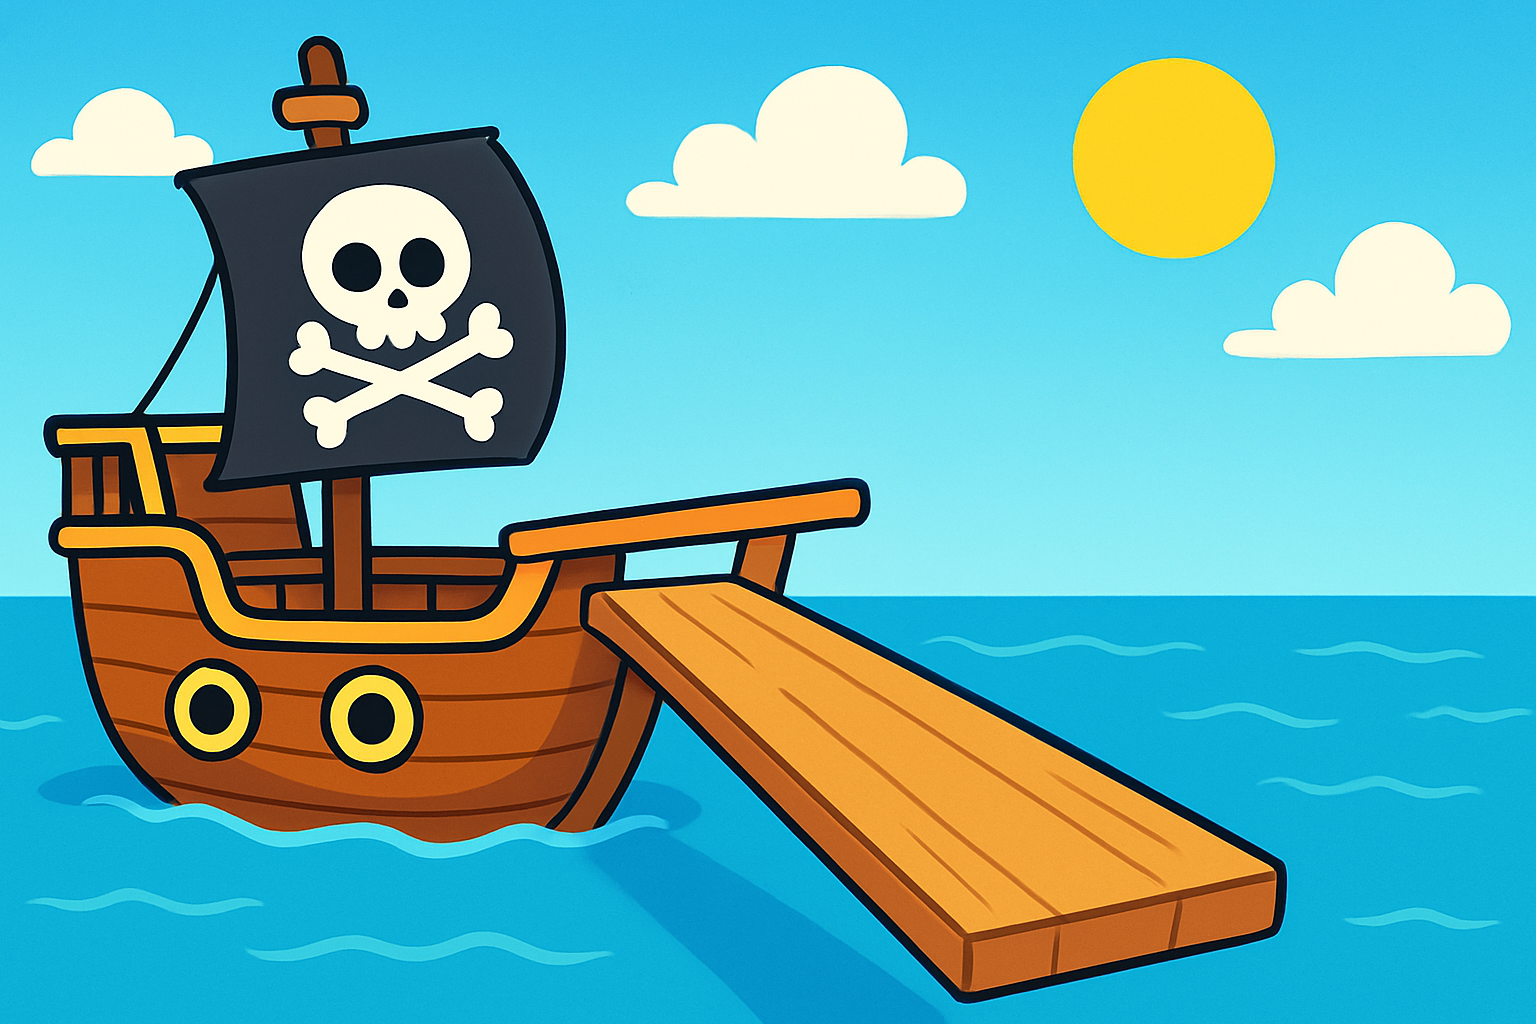
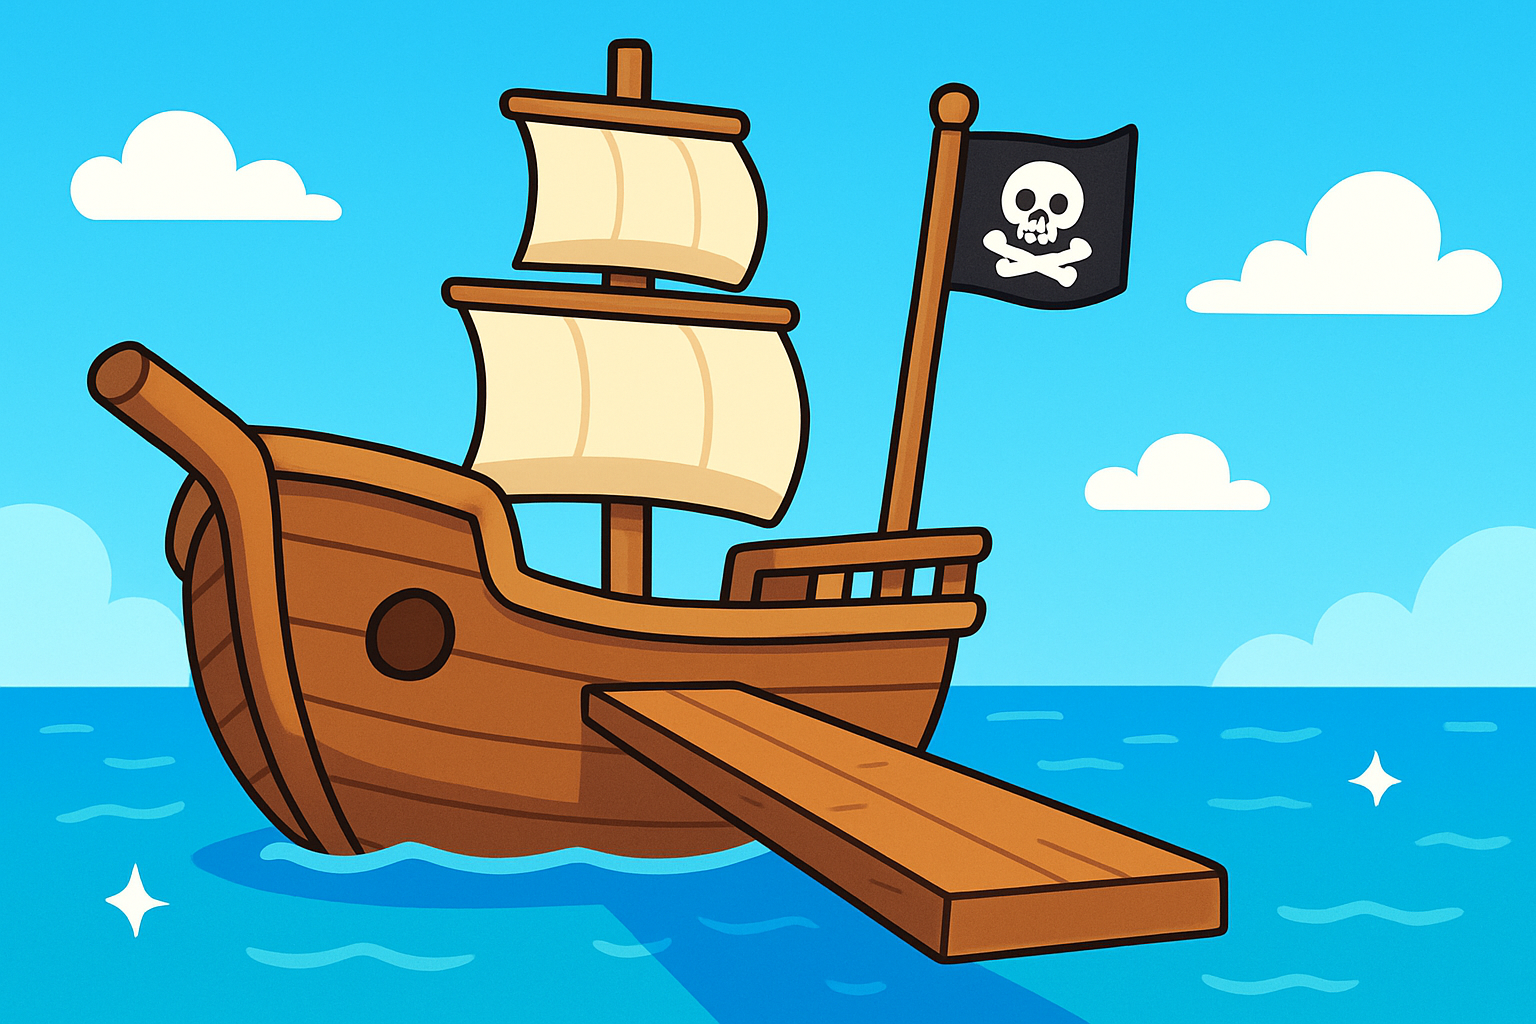
Walk the Plank: plank now exits the center side rail, not the bow
Regenerate the scene so the plank comes off the middle of the ship's side
railing (amidships) toward the viewer; re-tune pirate and whale positions.

diff --git a/plank.js b/plank.js
@@ -11,15 +11,15 @@ const STEPS = 6; // 6 correct rescues you; 6 wrong walks you off the end
 // down toward the viewer (lower-right, near, big), so as the pirate walks out
 // he moves right + down and scales UP.
 const KID = {
-  startL: 44, endL: 84,   // left %: deck end -> near tip
-  startT: 47, endT: 64,   // top %:  higher (far) -> lower (near)
+  startL: 47, endL: 78,   // left %: center side-rail -> near tip
+  startT: 50, endT: 64,   // top %:  higher (far) -> lower (near)
   startS: 0.5, endS: 1.15, // scale:  small (far) -> big (near)
 };
 // The whale rises from the horizon and barrels straight at the viewer:
 // nearly fixed left, dropping from the horizon line and scaling way up.
 const WHALE = {
-  startL: 66, endL: 74,
-  startT: 45, endT: 68,
+  startL: 64, endL: 72,
+  startT: 44, endT: 68,
   startS: 0.15, endS: 1.05,
 };
 const PIRATE_FRAMES = ["images/pirate_1.png", "images/pirate_2.png", "images/pirate_3.png"];